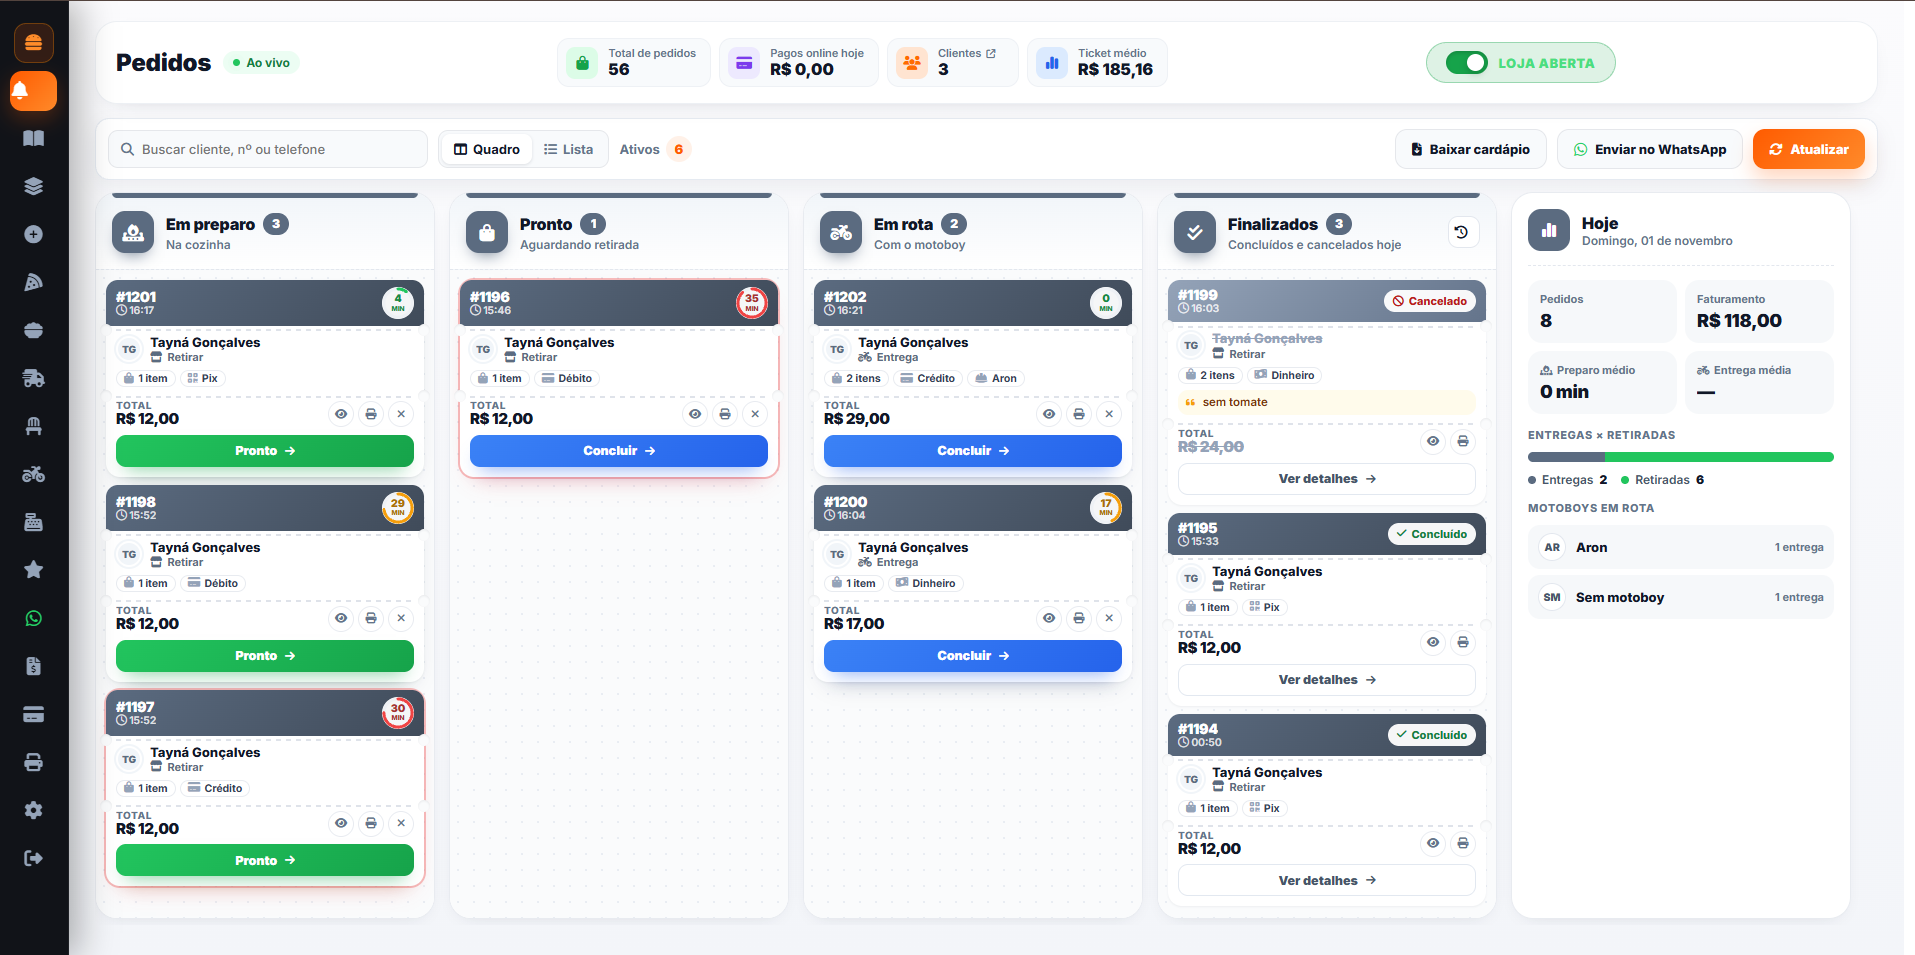
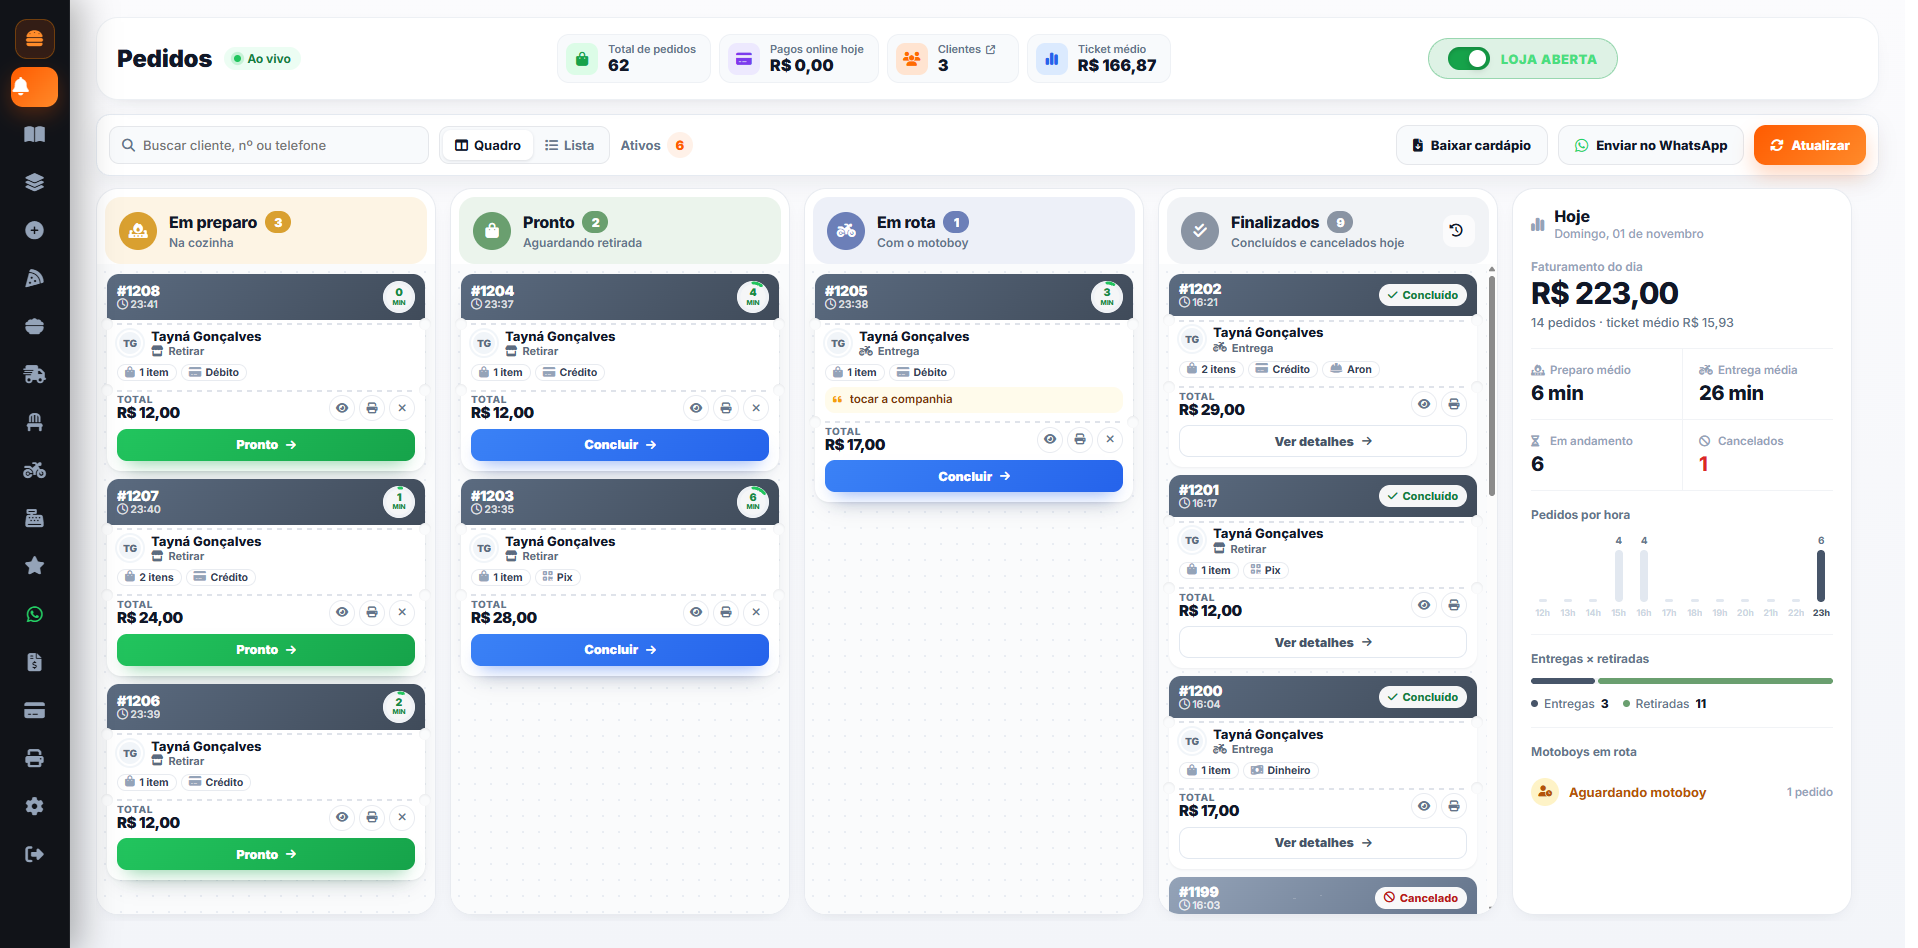
Atualiza imagens do painel admin no site

diff --git a/landing/index.html b/landing/index.html
@@ -1,4 +1,4 @@
-<!DOCTYPE html>
+<!DOCTYPE html>
 <html lang="pt-BR">
 <head>
   <meta charset="UTF-8">
@@ -665,7 +665,7 @@
       <div class="hero-stage" aria-label="Prévia do sistema">
         <div class="hero-desk browser night">
           <div class="browser-bar"><i></i><i></i><i></i><span>centralpedidosonline.com.br</span></div>
-          <img src="imagens/admin/tela-admin.png" alt="Painel do lojista com pedidos em tempo real">
+          <img src="imagens/admin/tela-admin1.png" alt="Painel do lojista com pedidos em tempo real">
         </div>
         <div class="hero-phone" id="heroPhone">
           <img class="on" src="imagens/cliente/temadark/telahome-dark.png" alt="Cardápio no celular">
@@ -715,8 +715,8 @@
         </div>
 
         <div class="tour-list" data-list="lojista" role="tablist" aria-label="Telas do lojista" hidden>
-          <button class="tour-tab" role="tab" aria-selected="true" data-desk="imagens/admin/tela-admin.png" data-frame><b>Pedidos em tempo real</b><span>Quadro com novos pedidos, em preparo, prontos, em rota e finalizados — com totais do dia e status da loja.</span></button>
-          <button class="tour-tab" role="tab" aria-selected="false" data-desk="imagens/admin/tela-admin-2.png" data-frame><b>Resumo do dia</b><span>Pedidos, faturamento, tempo médio de preparo, entregas × retiradas e motoboys em rota.</span></button>
+          <button class="tour-tab" role="tab" aria-selected="true" data-desk="imagens/admin/tela-admin1.png" data-frame><b>Pedidos em tempo real</b><span>Quadro com novos pedidos, em preparo, prontos, em rota e finalizados — com totais do dia e status da loja.</span></button>
+          <button class="tour-tab" role="tab" aria-selected="false" data-desk="imagens/admin/tela-admin-2.png" data-frame><b>Resumo do dia</b><span>Faturamento do dia, tempos médios de preparo e entrega, pedidos por hora, entregas × retiradas e motoboys em rota.</span></button>
           <button class="tour-tab" role="tab" aria-selected="false" data-desk="imagens/admin/admin-mesagarcom.png"><b>Mesas e garçom</b><span>Comandas por mesa e pedidos do salão acompanhados ao vivo.</span></button>
           <button class="tour-tab" role="tab" aria-selected="false" data-desk="imagens/admin/admin-cardapio-digital.png"><b>Cardápio digital</b><span>Produtos, categorias, complementos e preços fáceis de editar.</span></button>
           <button class="tour-tab" role="tab" aria-selected="false" data-desk="imagens/admin/personalizacao.png"><b>Personalização</b><span>Logo, banner, cores, horários e taxas de entrega da sua loja.</span></button>
@@ -753,7 +753,7 @@
         <div class="media">
           <div class="browser">
             <div class="browser-bar"><i></i><i></i><i></i><span>centralpedidosonline.com.br</span></div>
-            <img src="imagens/admin/tela-admin.png" alt="Painel administrativo" loading="lazy" data-zoom>
+            <img src="imagens/admin/tela-admin1.png" alt="Painel administrativo" loading="lazy" data-zoom>
           </div>
         </div>
         <div class="card-body">
